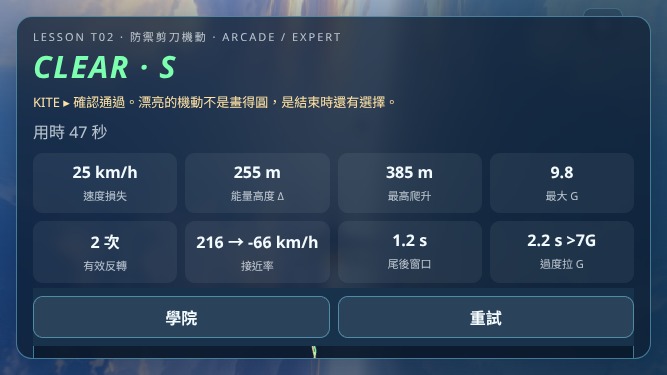
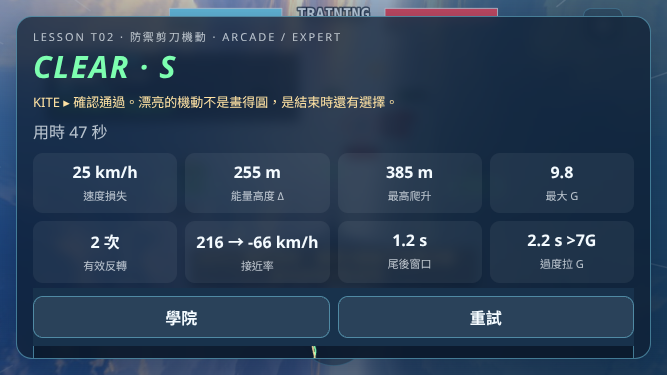
fix(academy): isolate aerobatics from weapon-discipline failure rules

Changed region(s): [[0.2399, 0.0, 0.7496, 0.0587], [0.4798, 0.9387, 0.5397, 0.9973]]

diff --git a/prototypes/ace-to-ace/src/academy/advanced.js b/prototypes/ace-to-ace/src/academy/advanced.js
@@ -156,6 +156,7 @@ const common={advanced:true,setup,crashReason:r=>`墜海。${advancedFailure(r)}
   grade(r){const m=r.notes.challenge;return m.minSpeed>130&&m.fullG<3?'S':m.minSpeed>100?'A':'B';}};
 export const ADVANCED_LESSONS=[{
   ...common,id:'A01',no:'A01',title:'殷麥曼轉彎',en:'IMMELMANN',attemptLimit:45,
+  rules:{weapons:false,playerDamage:0},
   principle:'半筋斗先反向並換取高度，倒飛後卸載、半滾轉恢復正飛。不是爬升中直接水平轉頭。',
   real:'真實原理：進場能量、垂直面拉起與頂點滾轉共同決定結果。這是機動概念教學，不是真機特技操作檢查單。',
   model:'模型：共用 G／阻力／速度與四元數姿態，可近似過頂與倒飛；無完整攻角、尾旋或倒飛供油。規則：3000m／1008km/h 起始、訓練不受武器損傷；只有 Expert 開放。',

diff --git a/prototypes/ace-to-ace/src/game/main.js b/prototypes/ace-to-ace/src/game/main.js
@@ -377,7 +377,7 @@ function openBriefing(id) {
   $('#briefPrinciple').textContent = l.principle;
   $('#briefGoals').innerHTML = l.goals.map((g) => `<li>${g}</li>`).join('');
   $('#briefReal').textContent = l.real || '';
-  $('#briefModel').textContent = (l.model || '')+(l.advanced?' 本課不評命中，飛彈停用；機砲只做開火時機回饋。':'');
+  $('#briefModel').textContent = (l.model || '')+(l.id==='A01'?' 本課武器停用。':l.advanced?' 本課不評命中，飛彈停用；機砲只做開火時機回饋。':'');
   const blocked=l.advanced&&advancedSupport(l,controlMode);
   $('#briefSupport').textContent=blocked|| (l.advanced?`流程：示範 → 引導練習 → 自主挑戰 → 數據結算。每段操作 ${l.attemptLimit} 秒；交棒時暫停並明確重置情境。`:'');
   $('#btnBriefGo').disabled=!!blocked;
